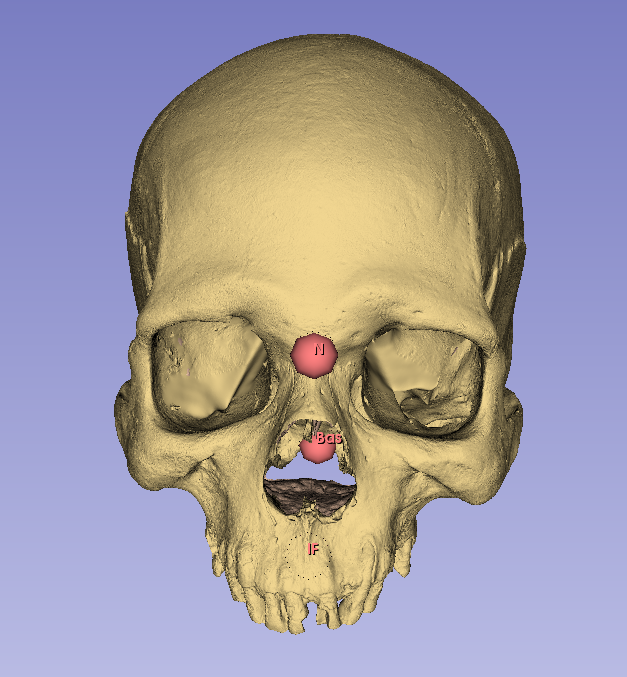
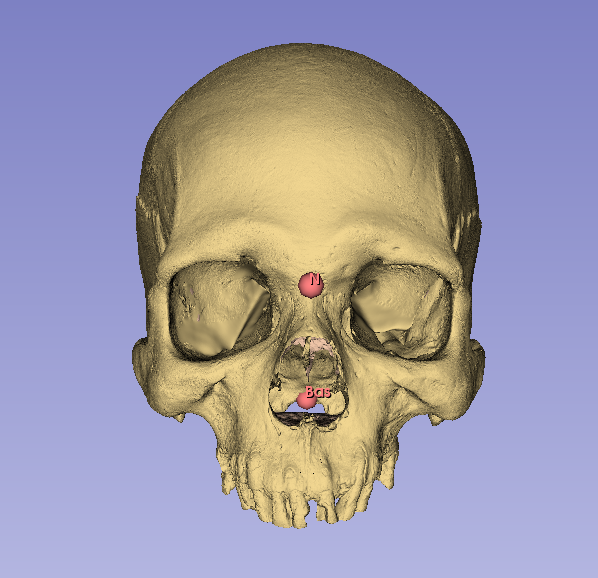
bisecting1

Changed region(s): [[0.1806, 0.0311, 0.8428, 0.9343]]

diff --git a/docs/Mirroring_Landmarks.html b/docs/Mirroring_Landmarks.html
@@ -237,6 +237,28 @@ Figure&nbsp;3: Creating a Plane
 </figcaption>
 </figure>
 </div>
+<ol start="4" type="1">
+<li>Right click on the central node of the new plane (labeled MSP)
+<ul>
+<li>there will be a tab for <code>Interaction Options</code></li>
+<li>Turn on both <code>Translate</code> and <code>Rotate</code></li>
+<li>Adjust the plane so that it passes through each of the three midsagittal landmarks
+<ul>
+<li><em>N, Bas, and IF</em></li>
+<li><em>Expand the margins of the plane so that you can clearly see it during adjustment</em></li>
+</ul></li>
+</ul></li>
+</ol>
+<div id="fig-SliceData" class="quarto-float quarto-figure quarto-figure-center anchored">
+<figure class="quarto-float quarto-float-fig figure">
+<div aria-describedby="fig-SliceData-caption-0ceaefa1-69ba-4598-a22c-09a6ac19f8ca">
+<img src="Images/MSP4.png" class="img-fluid figure-img">
+</div>
+<figcaption class="quarto-float-caption-bottom quarto-float-caption quarto-float-fig" id="fig-SliceData-caption-0ceaefa1-69ba-4598-a22c-09a6ac19f8ca">
+Figure&nbsp;4: Bisecting the skull
+</figcaption>
+</figure>
+</div>
 
 
 </section>
